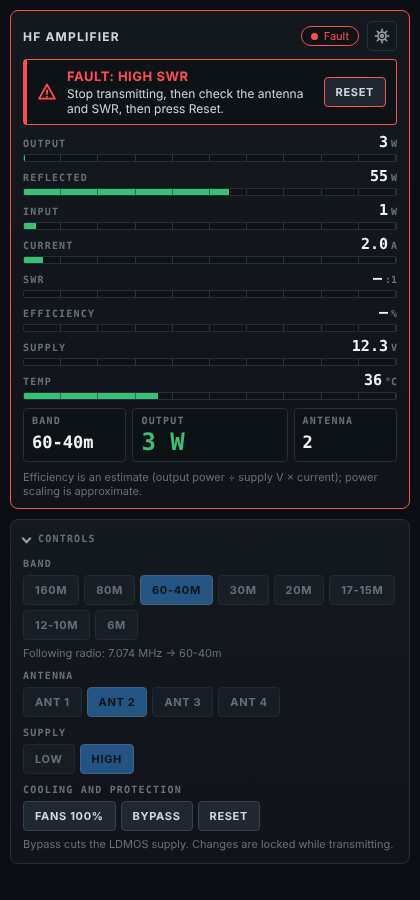
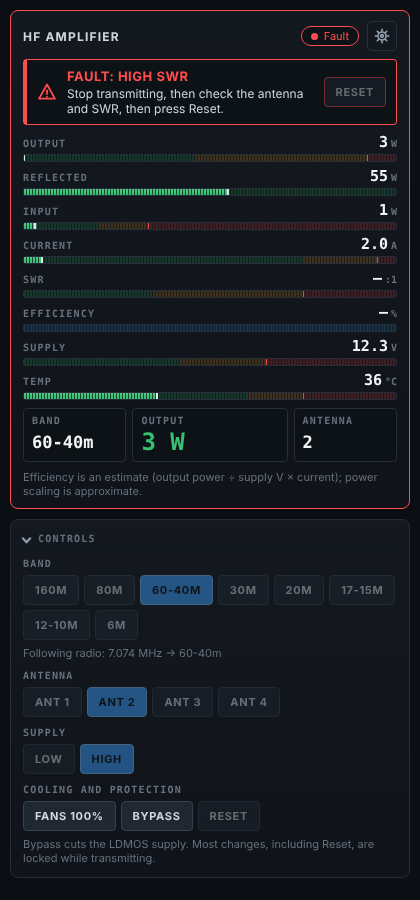
Updated meter look to better match Zeus

diff --git a/web/src/hf-amp.js b/web/src/hf-amp.js
@@ -192,23 +192,30 @@ function feedFaults(status, chime) {
 const ZONE_WORD = { warn: 'Caution', bad: 'Danger' };
 const pctOf = (v, min, max) => (v == null ? 0 : Math.max(0, Math.min(100, ((v - min) / (max - min)) * 100)));
 
-// One meter row: label + value on top, tick-marked bar below, optional held-peak marker.
-function Meter({ label, value, unit, min = 0, max, digits, live, zone, peak }) {
+// One meter row: label + value on top, an LED-style bar below, optional held-peak marker.
+// With `zones` the whole scale shows its green/yellow/red bands (dim) and the lit part is coloured by where it
+// reaches, like the host's own meters. Without them the bar is one colour (zone class, grey when stale, else accent).
+function Meter({ label, value, unit, min = 0, max, digits, live, zone, zones, peak }) {
   const pct = pctOf(value, min, max);
   const z = live ? zone : null;
   const peakPct = peak == null ? null : pctOf(peak, min, max);
   const word = ZONE_WORD[z];
+  const banded = !!zones && live;
+  const style = banded ? { '--wp': `${pctOf(zones.warn, min, max)}%`, '--bp': `${pctOf(zones.bad, min, max)}%` } : undefined;
+  const badPct = banded ? pctOf(zones.bad, min, max) : null;
   return h('div', { className: 'hfa-meter' },
     h('div', { className: 'hfa-meter-head' },
       h('span', { className: 'hfa-label' }, label),
       word ? h('span', { className: `hfa-zone ${z}` }, word) : null,
       h('span', { className: 'val' }, fmt(value, digits), h('span', { className: 'unit' }, unit))),
     h('div', {
-      className: `hfa-bar${live ? '' : ' stale'}${z ? ` z-${z}` : ''}`, role: 'meter', 'aria-label': label,
+      className: `hfa-bar${live ? '' : ' stale'}${banded ? ' banded' : z ? ` z-${z}` : ''}`, style, role: 'meter', 'aria-label': label,
       'aria-valuemin': min, 'aria-valuemax': max, 'aria-valuenow': value == null ? min : Number(value.toFixed(2)),
       'aria-valuetext': value == null ? 'no reading' : `${fmt(value, digits)} ${unit}${word ? `, ${word.toLowerCase()}` : ''}`,
     },
-      h('i', { style: { width: `${pct}%` } }),
+      h('i', { style: { clipPath: `inset(0 ${100 - pct}% 0 0)` } }),
+      badPct != null && badPct > 0 && badPct < 100 ? h('em', { className: 'hfa-notch', style: { left: `${badPct}%` } }) : null,
+      pct > 0 ? h('s', { className: 'hfa-tip', style: { left: `${pct}%` } }) : null,
       peakPct != null && peakPct > pct + 0.5
         ? h('b', { className: 'hfa-peak', style: { left: `${peakPct}%` }, title: `Peak ${fmt(peak, digits)} ${unit}` })
         : null));
@@ -550,20 +557,20 @@ function Panel({ api }) {
         h('div', { className: 'hfa-fault-text' },
           h('strong', null, `Fault: ${faultText}`),
           h('span', null, `${tx ? 'Stop transmitting, then c' : 'C'}heck ${FAULT_HINTS[amp.flag4] || 'the amplifier'}, then press Reset.`)),
-        h('button', { type: 'button', disabled: !connected, onClick: () => cmd({ action: 'reset' }) }, 'Reset')) : null,
+        h('button', { type: 'button', disabled: !connected || lockTx, title: lockTx ? 'Reset is not accepted while transmitting' : undefined, onClick: () => cmd({ action: 'reset' }) }, 'Reset')) : null,
       c.error && !connected ? h('p', { className: 'hfa-msg err' }, c.error) : null,
       unconfigured
         ? h('p', { className: 'hfa-empty' }, 'No amplifier address yet. Open settings (the gear) to connect.')
         : null,
       h('div', { className: 'hfa-meters' },
-        h(Meter, { label: 'Output', value: live ? meters.forwardW : null, unit: 'W', min: M.Output.min, max: M.Output.max, digits: 0, live, zone: zoneOf(meters?.forwardW, M.Output), peak: pk('Output') }),
+        h(Meter, { label: 'Output', value: live ? meters.forwardW : null, unit: 'W', min: M.Output.min, max: M.Output.max, zones: M.Output, digits: 0, live, zone: zoneOf(meters?.forwardW, M.Output), peak: pk('Output') }),
         h(Meter, { label: 'Reflected', value: live ? meters.reflectedW : null, unit: 'W', min: M.Reflected.min, max: M.Reflected.max, digits: 0, live, zone: swrZone || 'ok', peak: pk('Reflected') }),
-        h(Meter, { label: 'Input', value: live ? meters.inputW : null, unit: 'W', min: M.Input.min, max: M.Input.max, digits: 0, live, zone: zoneOf(meters?.inputW, M.Input), peak: pk('Input') }),
-        h(Meter, { label: 'Current', value: live ? meters.currentA : null, unit: 'A', min: M.Current.min, max: M.Current.max, digits: 1, live, zone: zoneOf(meters?.currentA, M.Current), peak: pk('Current') }),
-        h(Meter, { label: 'SWR', value: live ? meters.swr : null, unit: ':1', min: M.SWR.min, max: M.SWR.max, digits: 2, live, zone: swrZone, peak: pk('SWR') }),
+        h(Meter, { label: 'Input', value: live ? meters.inputW : null, unit: 'W', min: M.Input.min, max: M.Input.max, zones: M.Input, digits: 0, live, zone: zoneOf(meters?.inputW, M.Input), peak: pk('Input') }),
+        h(Meter, { label: 'Current', value: live ? meters.currentA : null, unit: 'A', min: M.Current.min, max: M.Current.max, zones: M.Current, digits: 1, live, zone: zoneOf(meters?.currentA, M.Current), peak: pk('Current') }),
+        h(Meter, { label: 'SWR', value: live ? meters.swr : null, unit: ':1', min: M.SWR.min, max: M.SWR.max, zones: M.SWR, digits: 2, live, zone: swrZone, peak: pk('SWR') }),
         h(Meter, { label: 'Efficiency', value: live ? meters.efficiencyPercent : null, unit: '%', min: M.Efficiency.min, max: M.Efficiency.max, digits: 0, live }),
-        h(Meter, { label: 'Supply', value: idleLive ? amp.volts : null, unit: 'V', min: M.Supply.min, max: M.Supply.max, digits: 1, live: idleLive, zone: zoneOf(amp?.volts, M.Supply) }),
-        h(Meter, { label: 'Temp', value: idleLive ? amp.tempC : null, unit: '°C', min: M.Temp.min, max: M.Temp.max, digits: 0, live: idleLive, zone: zoneOf(amp?.tempC, M.Temp) })),
+        h(Meter, { label: 'Supply', value: idleLive ? amp.volts : null, unit: 'V', min: M.Supply.min, max: M.Supply.max, zones: M.Supply, digits: 1, live: idleLive, zone: zoneOf(amp?.volts, M.Supply) }),
+        h(Meter, { label: 'Temp', value: idleLive ? amp.tempC : null, unit: '°C', min: M.Temp.min, max: M.Temp.max, zones: M.Temp, digits: 0, live: idleLive, zone: zoneOf(amp?.tempC, M.Temp) })),
       h('div', { className: 'hfa-readouts' },
         h(Read, { k: 'Band', v: amp ? amp.bandName : '—' }),
         h(Read, { k: 'Output', big: true, zone: live ? zoneOf(meters.forwardW, M.Output) : null,
@@ -602,8 +609,8 @@ function Panel({ api }) {
         h('div', { className: 'hfa-row' },
           toggle('Fans 100%', !!controls.fansForced, 'fans', 'force', 'auto'),
           toggle('Bypass', !!amp?.bypass, 'bypass', 'on', 'off', { warn: true, disabled: false }),
-          h('button', { type: 'button', disabled: !connected, onClick: () => cmd({ action: 'reset' }) }, 'Reset')),
-        h('p', { className: 'hfa-note' }, 'Bypass cuts the LDMOS supply. Changes are locked while transmitting.'))));
+          h('button', { type: 'button', disabled: !connected || lockTx, title: lockTx ? 'Reset is not accepted while transmitting' : undefined, onClick: () => cmd({ action: 'reset' }) }, 'Reset')),
+        h('p', { className: 'hfa-note' }, 'Bypass cuts the LDMOS supply. Most changes, including Reset, are locked while transmitting.'))));
 }
 
 // Maps /status onto the host's standard amplifier meter (the meters pane).

diff --git a/web/src/styles.css b/web/src/styles.css
@@ -15,13 +15,6 @@
 .com-n1mjf-hfamp .hfa-meter-head { display: flex; align-items: baseline; justify-content: space-between; gap: 8px; }
 .com-n1mjf-hfamp .hfa-meter .val { font-family: var(--font-mono); font-size: 15px; font-weight: 600; color: var(--fg-0); font-variant-numeric: tabular-nums; }
 .com-n1mjf-hfamp .hfa-meter .unit { font-size: 10px; color: var(--fg-3); margin-left: 3px; }
-.com-n1mjf-hfamp .hfa-bar { position: relative; height: 8px; background: var(--bg-inset); border: 1px solid var(--line); border-radius: var(--r-xs); overflow: hidden; }
-.com-n1mjf-hfamp .hfa-bar > i { display: block; height: 100%; width: 0; background: var(--accent); transition: width var(--dur-fast) var(--ease-out); }
-.com-n1mjf-hfamp .hfa-bar.z-ok > i { background: var(--ok); }
-.com-n1mjf-hfamp .hfa-bar.z-warn > i { background: var(--amber); }
-.com-n1mjf-hfamp .hfa-bar.z-bad > i { background: var(--tx); }
-.com-n1mjf-hfamp .hfa-bar.stale > i { background: var(--fg-3); }
-.com-n1mjf-hfamp .hfa-bar::after { content: ""; position: absolute; inset: 0; pointer-events: none; background: repeating-linear-gradient(90deg, transparent 0, transparent calc(10% - 1px), var(--line-strong) calc(10% - 1px), var(--line-strong) 10%); opacity: .7; }
 .com-n1mjf-hfamp .hfa-readouts { display: grid; grid-template-columns: minmax(0, 1fr) minmax(0, 1.5fr) minmax(0, 1fr); gap: 6px; align-items: stretch; }
 .com-n1mjf-hfamp .hfa-read { background: var(--bg-inset); border: 1px solid var(--line); border-radius: var(--r-sm); padding: 6px 8px; display: grid; gap: 3px; }
 .com-n1mjf-hfamp .hfa-read .v { font-family: var(--font-mono); font-size: 17px; font-weight: 600; color: var(--fg-0); font-variant-numeric: tabular-nums; }
@@ -53,7 +46,6 @@
 .com-n1mjf-hfamp button[aria-expanded="true"] .hfa-chev { transform: rotate(45deg); }
 .com-n1mjf-hfamp .hfa-summary { margin-left: auto; font-family: var(--font-mono); font-size: 11px; color: var(--fg-2); text-align: right; overflow-wrap: anywhere; }
 @media (prefers-reduced-motion: reduce) { .com-n1mjf-hfamp .hfa-chev { transition: none; } }
-.com-n1mjf-hfamp .hfa-peak { position: absolute; top: 0; bottom: 0; width: 2px; margin-left: -1px; background: var(--fg-0); z-index: 1; }
 .com-n1mjf-hfamp .hfa-head-end { display: flex; align-items: center; gap: 8px; }
 .com-n1mjf-hfamp button.hfa-icon { display: inline-flex; align-items: center; justify-content: center; padding: 0; width: 30px; min-height: 30px; color: var(--fg-2); background: transparent; border-color: var(--line); }
 .com-n1mjf-hfamp button.hfa-icon:hover:not(:disabled) { color: var(--fg-0); }
@@ -84,3 +76,20 @@
 .com-n1mjf-hfamp input[type="number"][aria-invalid="true"] { border-color: var(--amber); }
 .com-n1mjf-hfamp input[type="range"] { accent-color: var(--accent); width: 100%; min-height: 24px; }
 .com-n1mjf-hfamp .hfa-strip { height: 6px; border-radius: var(--r-xs); border: 1px solid var(--line); }
+
+/* LED-style bar. ::before is the dim full-scale track, i the lit part (clipped to the value), ::after the segment gaps. */
+.com-n1mjf-hfamp .hfa-bar { --hfa-fill: var(--accent); position: relative; height: 8px; background: var(--bg-inset); border: 1px solid var(--line); border-radius: var(--r-xs); overflow: hidden; }
+.com-n1mjf-hfamp .hfa-bar.banded { --hfa-fill: linear-gradient(90deg, var(--ok) 0, var(--ok) var(--wp), var(--amber) var(--wp), var(--amber) var(--bp), var(--tx) var(--bp), var(--tx) 100%); }
+.com-n1mjf-hfamp .hfa-bar.z-ok { --hfa-fill: var(--ok); }
+.com-n1mjf-hfamp .hfa-bar.z-warn { --hfa-fill: var(--amber); }
+.com-n1mjf-hfamp .hfa-bar.z-bad { --hfa-fill: var(--tx); }
+.com-n1mjf-hfamp .hfa-bar.stale { --hfa-fill: var(--fg-3); }
+.com-n1mjf-hfamp .hfa-bar::before { content: ""; position: absolute; inset: 0; background: var(--hfa-fill); opacity: .22; }
+.com-n1mjf-hfamp .hfa-bar > i { position: absolute; inset: 0; display: block; background: var(--hfa-fill); transition: clip-path var(--dur-fast) var(--ease-out); }
+.com-n1mjf-hfamp .hfa-bar > i::after { content: ""; position: absolute; inset: 0; background: linear-gradient(180deg, var(--fg-0), transparent 60%); opacity: .2; }
+.com-n1mjf-hfamp .hfa-bar::after { content: ""; position: absolute; inset: 0; z-index: 2; pointer-events: none; background: repeating-linear-gradient(90deg, transparent 0, transparent 2px, var(--bg-inset) 2px, var(--bg-inset) 3px); opacity: .7; }
+.com-n1mjf-hfamp .hfa-notch { position: absolute; top: 0; bottom: 0; width: 1px; background: var(--tx); z-index: 3; opacity: .9; }
+.com-n1mjf-hfamp .hfa-tip { position: absolute; top: 0; bottom: 0; width: 2px; margin-left: -2px; background: var(--fg-0); z-index: 3; opacity: .9; transition: left var(--dur-fast) var(--ease-out); }
+.com-n1mjf-hfamp .hfa-bar.stale .hfa-tip { opacity: .4; }
+.com-n1mjf-hfamp .hfa-peak { position: absolute; top: 0; bottom: 0; width: 2px; margin-left: -1px; background: var(--fg-0); z-index: 4; }
+@media (prefers-reduced-motion: reduce) { .com-n1mjf-hfamp .hfa-bar > i, .com-n1mjf-hfamp .hfa-tip { transition: none; } }

diff --git a/tests/HfAmp.Tests.cs b/tests/HfAmp.Tests.cs
@@ -237,8 +237,12 @@ Test("interlocks: transmit blocks relays and supply, allows safety actions", asy
     Check((await c.SetBypassAsync(false)) is { Ok: false, Status: 409 }, "restoring LDMOS supply blocked");
 
     Check((await c.SetBypassAsync(true)).Ok, "cutting the supply is always allowed");
-    Check((await c.ResetAsync()).Ok, "reset allowed");
+    Check((await c.ResetAsync()) is { Ok: false, Status: 409 }, "reset blocked while transmitting (the controller refuses it)");
     Check((await c.SetFansAsync(true)).Ok, "fans allowed");
+    Check(amp.Count("23") == 0, "the blocked reset never reached the amp");
+    amp.SetTx(false);
+    Check(await Until(() => c.GetSnapshot().Status is { Tx: false }), "tx ended");
+    Check((await c.ResetAsync()).Ok, "reset allowed once the amp is receiving");
     await Task.Delay(100);
     Check(amp.Count("32") == 0 && amp.Count("72") == 0 && amp.Count("42") == 0 && amp.Count("22") == 0,
         "blocked commands never reached the amp");

diff --git a/src/Zeus.Community.HfAmp/Amp/AmpClient.cs b/src/Zeus.Community.HfAmp/Amp/AmpClient.cs
@@ -438,7 +438,7 @@ internal sealed class AmpClient : IAsyncDisposable
     }
 
     public async Task<CommandResult> ResetAsync() =>
-        Precheck(false, "Reset") ?? await SendAsync(AmpProtocol.Reset, "Reset sent").ConfigureAwait(false);
+        Precheck(true, "Reset") ?? await SendAsync(AmpProtocol.Reset, "Reset sent").ConfigureAwait(false);
 
     public async Task<CommandResult> SetAntennaAsync(int antenna)
     {
